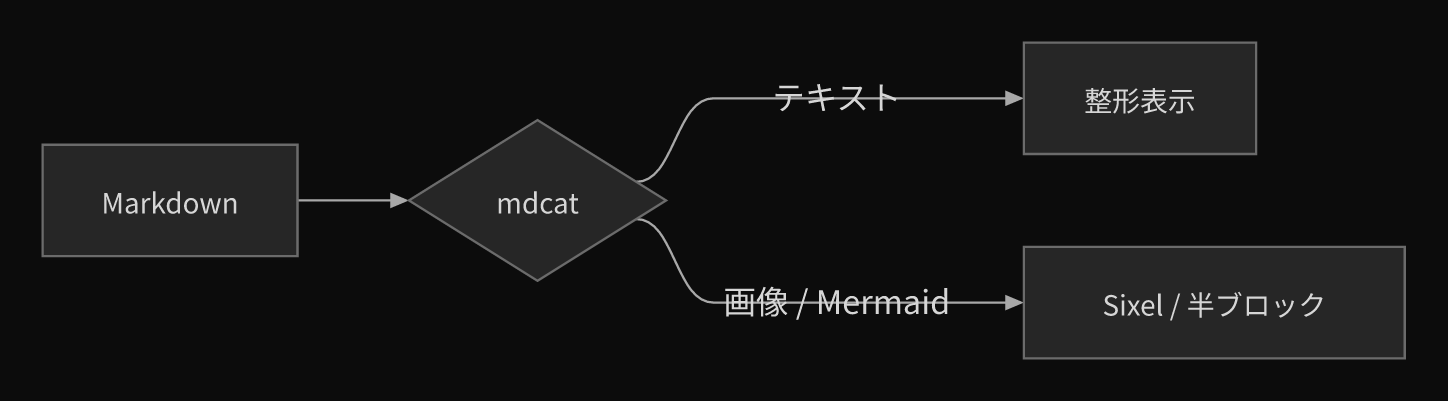
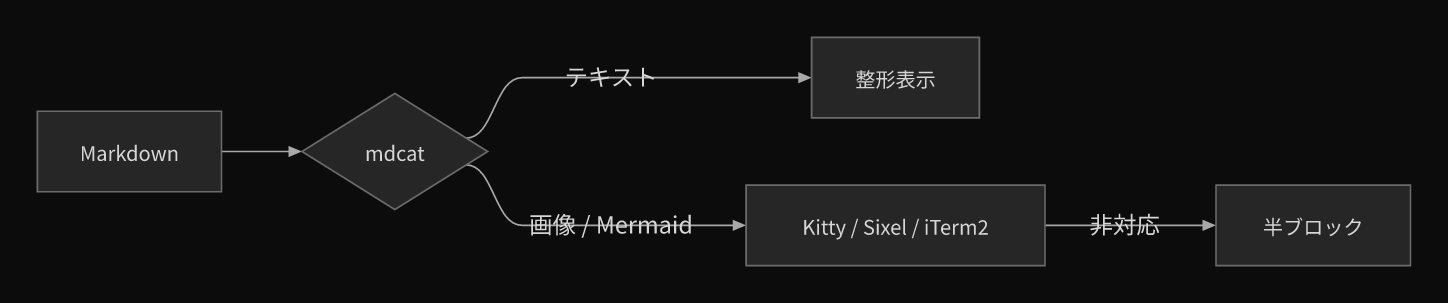
docs: デモを拡充（テキスト表現・表・Mermaid 4種・PNG/SVG 画像・コード・絵文字）
- examples/demo.md: 見出し/強調/打ち消し線/リンク/入れ子リスト/引用/水平線/表、
  flowchart・sequenceDiagram・pie・classDiagram、PNG と SVG の画像、
  TypeScript/bash/json のコード、日本語と絵文字
- examples/diagram.svg: SVG 描画のデモ用ベクター画像
- examples/sample.png: グラデーション + 半透明 + 市松模様のサンプル
- docs/diagram.png: 新しいフローチャートから再生成
- README: デモの実行例を追加

Changed region(s): [[0.0, 0.297, 0.9945, 0.9208], [0.3419, 0.0891, 0.8702, 0.4158]]

diff --git a/examples/demo.md b/examples/demo.md
@@ -1,19 +1,94 @@
 # mdview デモ
 
-テキストは **mdcat** が描画し、図と画像は端末内に描画されます。
+`mdcat` の書式をそのままに、**画像**と **Mermaid** を端末内に描画します。
+テキスト部分は mdcat が担当するので、見た目はいつもの mdcat と同じです。
+
+## テキスト表現
+
+- **太字**、*斜体*、~~打ち消し線~~、`インラインコード`
+- リンク: [oharato/mdview](https://github.com/oharato/mdview)
+- 入れ子のリスト
+  - レベル 2 の項目
+    1. さらに深い番号付き
+    2. もうひとつ
+
+1. 手順その一
+2. 手順その二
+   - 補足はこのようにぶら下げる
+
+> 引用はこのように表示されます。
+> 複数行にまたがっても大丈夫です。
+
+---
+
+### 表
+
+| プロトコル | 使える端末 | 解像度 |
+|---|---|---|
+| Kitty graphics | WezTerm / kitty / Ghostty / Herdr | フル |
+| Sixel | Windows Terminal 1.22+ / xterm | フル |
+| iTerm2 | iTerm2 / VSCode | フル |
+| 半ブロック | その他の端末 | 低 |
 
 ## Mermaid
+
+### フローチャート
 
 ```mermaid
 flowchart LR
   A[Markdown] --> B{mdcat}
   B -->|テキスト| C[整形表示]
-  B -->|画像 / Mermaid| D[Sixel / 半ブロック]
+  B -->|画像 / Mermaid| D[Kitty / Sixel / iTerm2]
+  D -->|非対応| E[半ブロック]
+```
+
+### シーケンス図
+
+```mermaid
+sequenceDiagram
+  participant U as ユーザー
+  participant M as mdview
+  participant T as 端末
+  U->>M: mdview README.md
+  M->>M: Markdown を分解
+  M->>T: mdcat（テキスト）
+  M->>T: Kitty / Sixel（画像と図）
+  T-->>U: 表示
+```
+
+### 円グラフ
+
+```mermaid
+pie title 描画プロトコルの内訳
+  "Kitty graphics" : 55
+  "Sixel" : 20
+  "iTerm2" : 10
+  "半ブロック" : 15
+```
+
+### クラス図
+
+```mermaid
+classDiagram
+  class Renderer {
+    +string name
+    +render(image)
+  }
+  class Kitty
+  class Sixel
+  Renderer <|-- Kitty
+  Renderer <|-- Sixel
 ```
 
 ## 画像
 
-![サンプル](sample.png)
+PNG（スクリーンショットや写真など）:
+
+![サンプル画像](sample.png)
+
+SVG（ベクター画像）:
+
+![SVG の例](diagram.svg)
 
 ## コード
 
@@ -22,3 +97,17 @@ export function hello(name: string): string {
   return `こんにちは, ${name}!`;
 }
 ```
+
+```bash
+mdview --check
+mdview --update
+```
+
+```json
+{ "renderer": "kitty", "imageWidth": 109, "light": false }
+```
+
+## 日本語と絵文字
+
+全角と半角が混在していても表示幅は正しく計算されます。
+絵文字もそのまま: 🎨 📐 🖼

diff --git a/README.md b/README.md
@@ -105,6 +105,7 @@ mdview --update         # 自分自身を更新
 ## 使い方
 
 ```bash
+mdview examples/demo.md               # 同梱のデモ（テキスト・表・Mermaid・PNG・SVG）
 mdview README.md                      # 表示
 cat README.md | mdview                # 標準入力
 mdview -w 100 -i 100 doc.md           # テキスト100桁 / 画像100桁
